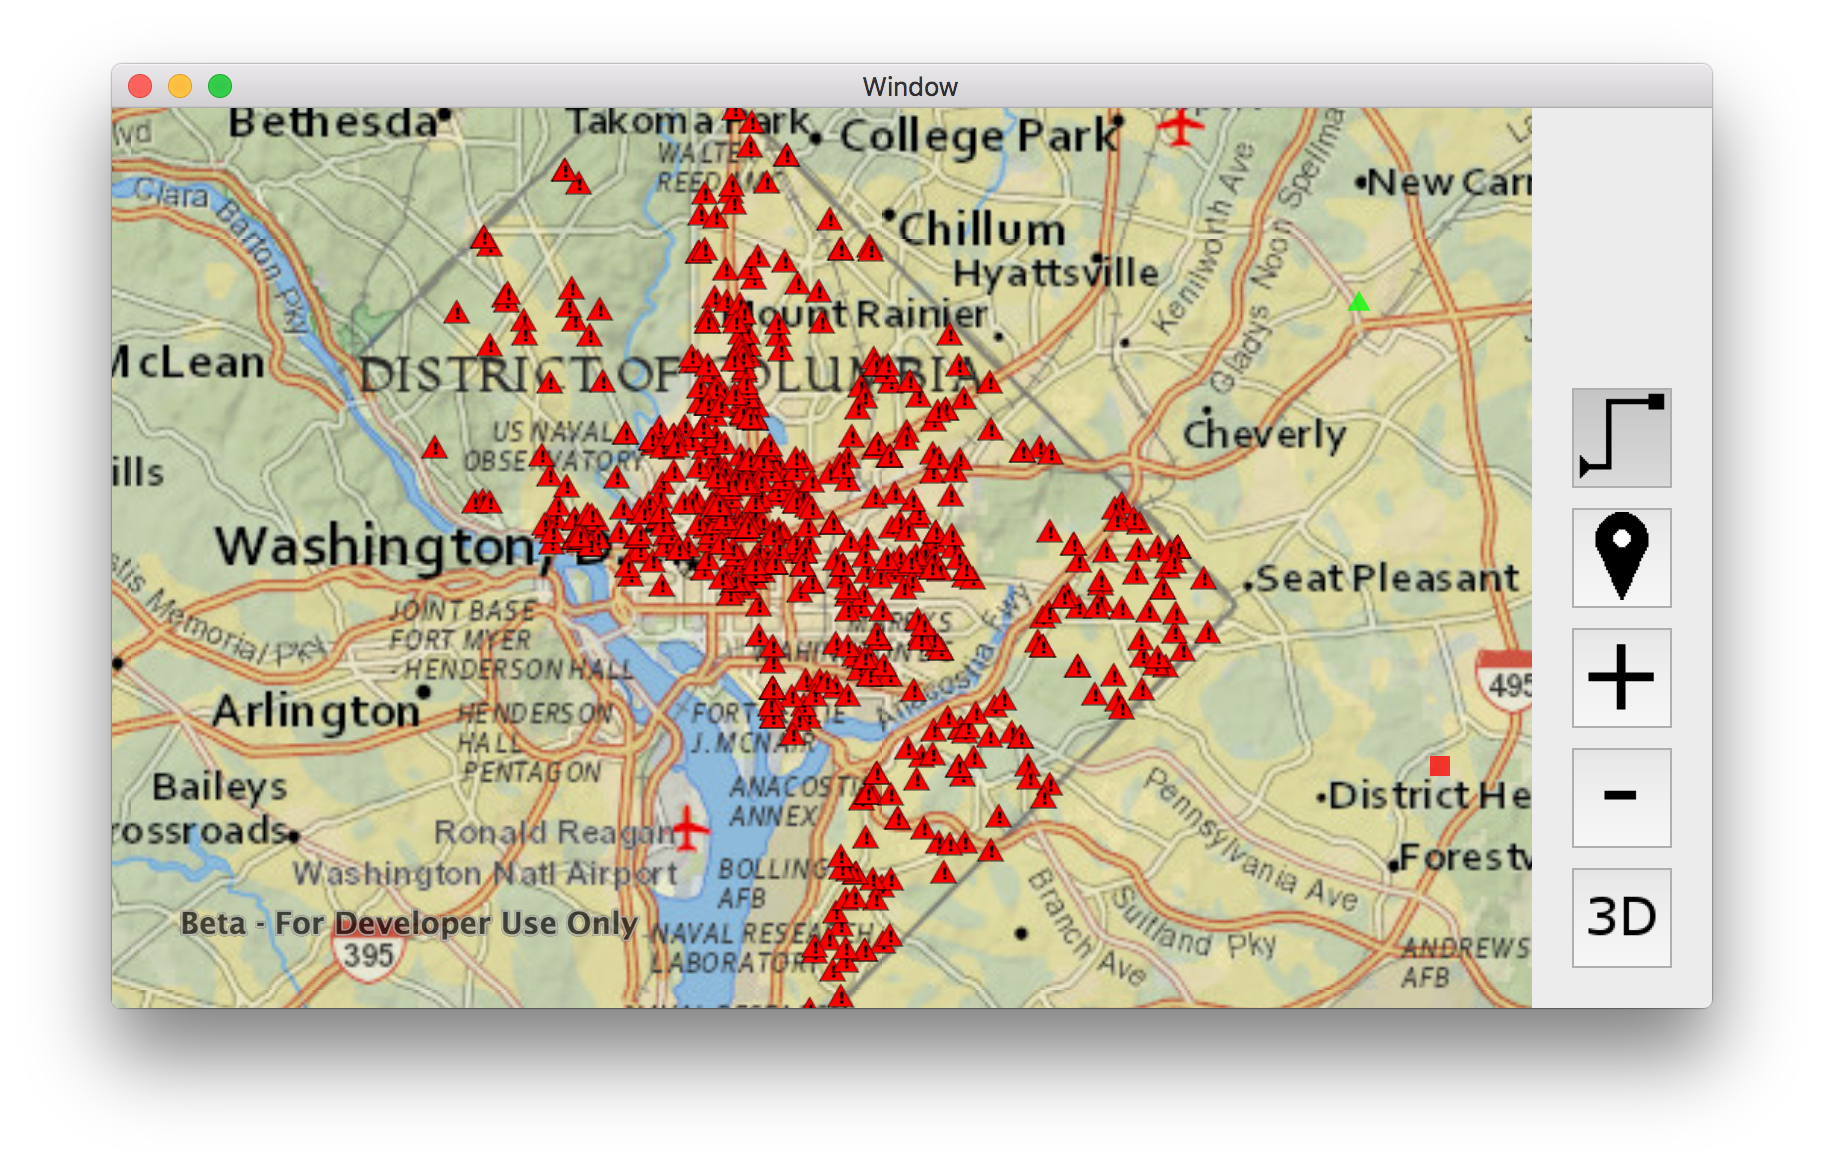
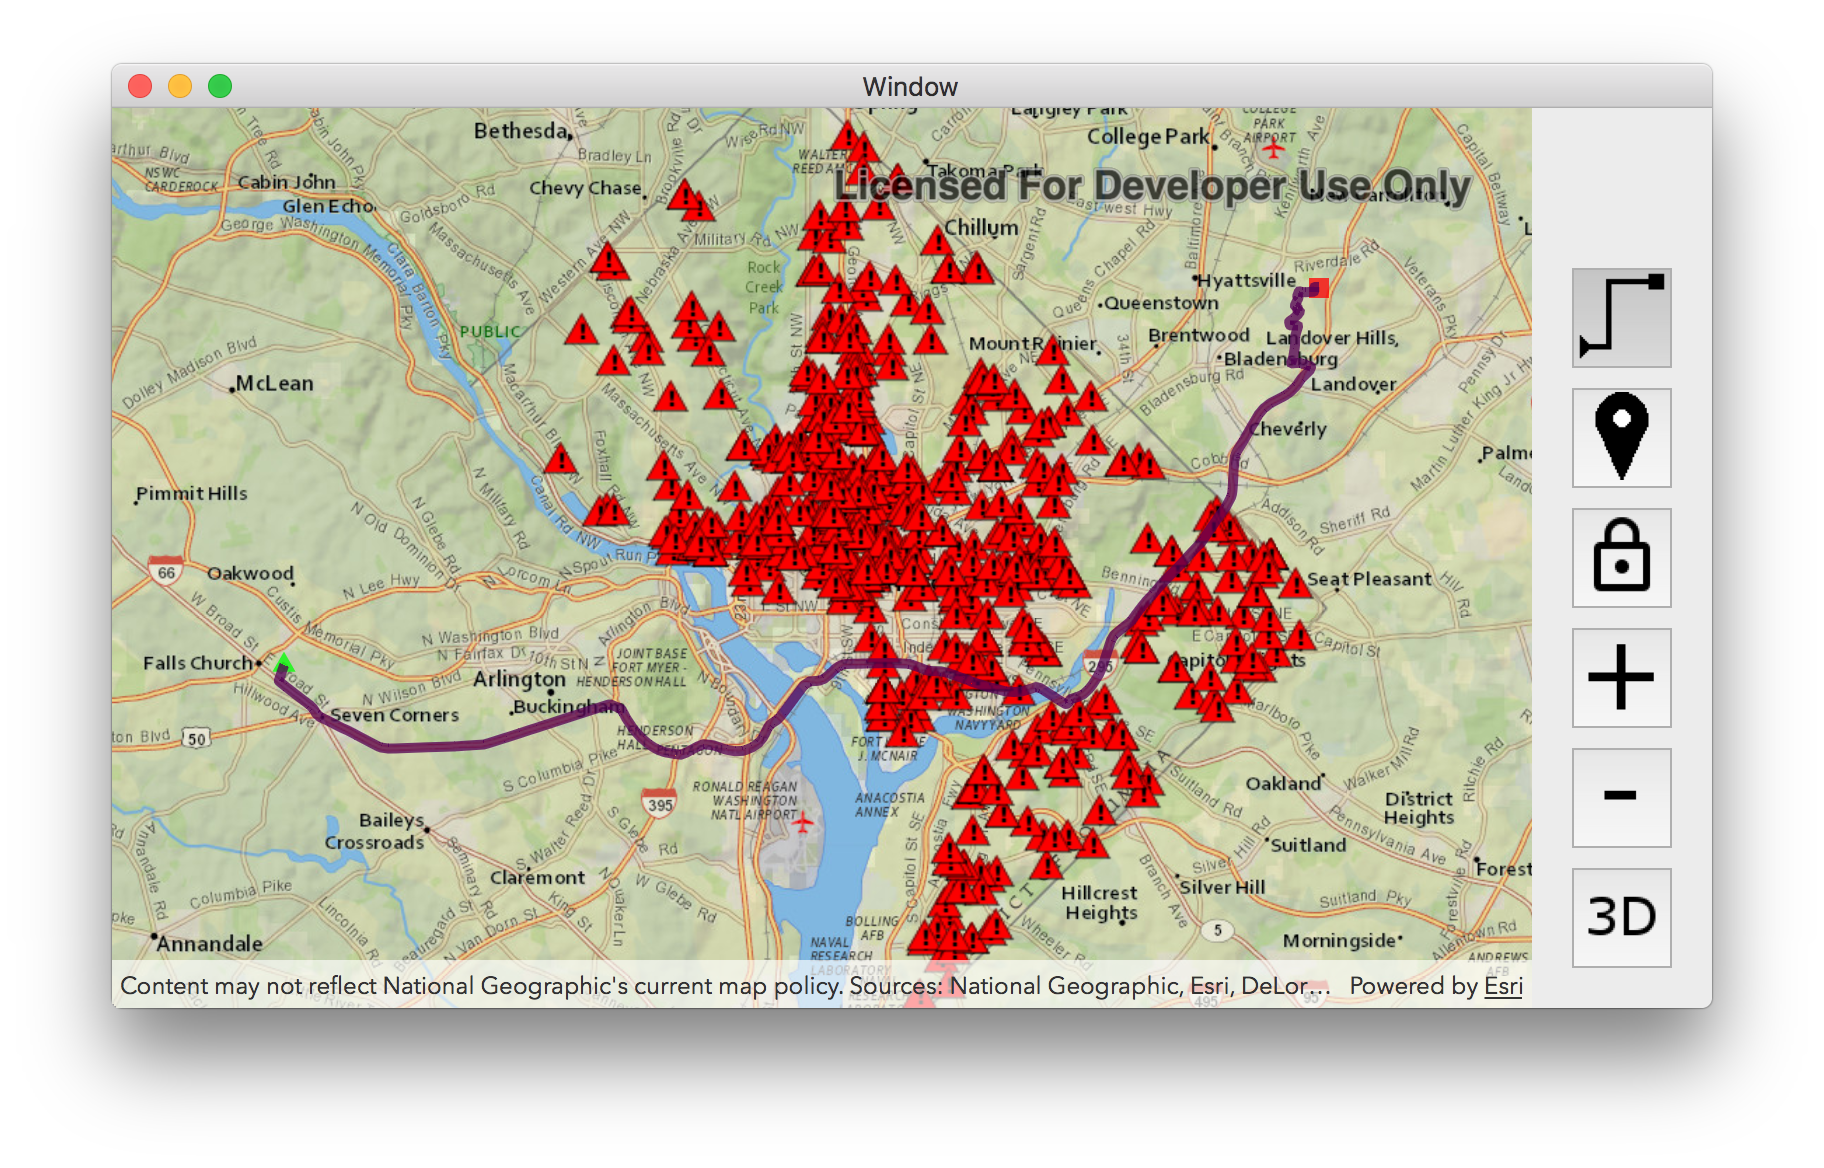
Added lock focus button to macOS Exercise 5 solution and screenshots

diff --git a/runtime-workshop/solutions/macOS/Swift/Ex5_Routing/WorkshopApp/ViewController.swift b/runtime-workshop/solutions/macOS/Swift/Ex5_Routing/WorkshopApp/ViewController.swift
@@ -318,6 +318,35 @@ class ViewController: NSViewController {
     }
     
     /**
+     Exercise 2: lock focus
+     */
+    @IBAction func button_lockFocus_onAction(_ sender: NSButton) {
+        if (NSOnState == sender.state) {
+            let target = getSceneTarget()
+            if (target is AGSPoint) {
+                let targetPoint = target as! AGSPoint
+                let currentCamera = sceneView.currentViewpointCamera()
+                let currentCameraPoint = currentCamera.location
+                let xyDistance = AGSGeometryEngine.geodeticDistanceBetweenPoint1(
+                    targetPoint,
+                    point2: currentCameraPoint,
+                    distanceUnit: AGSLinearUnit.meters(),
+                    azimuthUnit: AGSAngularUnit.degrees(),
+                    curveType: AGSGeodeticCurveType.geodesic)?.distance
+                let zDistance = currentCameraPoint.z
+                let distanceToTarget = (pow(xyDistance!, 2) + pow(zDistance, 2)).squareRoot();
+                let cameraController = AGSOrbitLocationCameraController(targetLocation: targetPoint, distance: distanceToTarget)
+                cameraController.cameraHeadingOffset = currentCamera.heading
+                cameraController.cameraPitchOffset = currentCamera.pitch
+                sceneView.cameraController = cameraController
+            }
+        } else {
+            sceneView.cameraController = AGSGlobeCameraController()
+        }
+    }
+
+    
+    /**
      Exercise 2: determine whether to call zoomMap or zoomScene
      */
     fileprivate func zoom(_ factor: Double) {
@@ -340,13 +369,20 @@ class ViewController: NSViewController {
     }
     
     /**
+     Exercise 2: Get the AGSSceneView viewpoint target.
+     */
+    fileprivate func getSceneTarget() -> AGSGeometry {
+        return (sceneView.currentViewpoint(with: AGSViewpointType.centerAndScale)?.targetGeometry)!
+    }
+    
+    /**
      Exercise 2: Utility method for zooming the 3D scene
      
      - parameters:
      - factor: The zoom factor (greater than 1 to zoom in, less than 1 to zoom out)
      */
     fileprivate func zoomScene(_ factor: Double) {
-        let target = sceneView.currentViewpoint(with: AGSViewpointType.centerAndScale)?.targetGeometry as! AGSPoint
+        let target = getSceneTarget() as! AGSPoint
         let camera = sceneView.currentViewpointCamera().zoomTowardTargetPoint(target, factor: factor)
         sceneView.setViewpointCamera(camera, duration: 0.5, completion: nil)
     }
